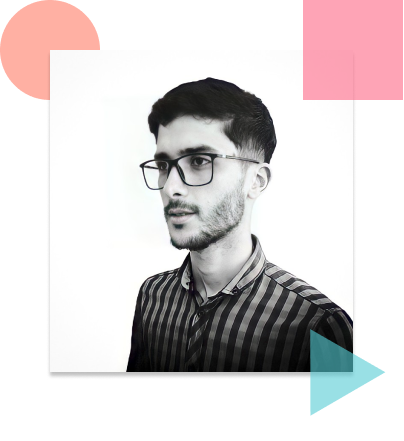
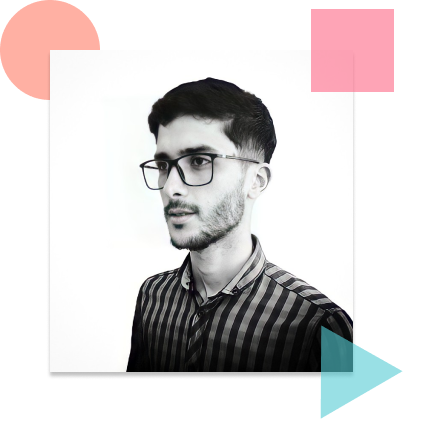
sized

diff --git a/src/components/Skills.js b/src/components/Skills.js
@@ -32,18 +32,18 @@ function Skills() {
                 </div>
 
                 <div data-aos="zoom-in" className="relative w-64 h-64 md:w-auto md:h-auto overflow-hidden">
-                    <img className="animate-spin-slow w-64 h-64 md:w-auto md:h-auto" src={circle} alt="circle" style={{maxHeight:570}}/>
+                    <img className="animate-spin-slow w-64 h-64 xl:w-auto xl:h-auto size-circle" src={circle} alt="circle"/>
                     <p className="hidden md:block absolute bottom-1/2 left-1/2 -ml-8 -mb-4 text-lg md:text-2xl font-pop font-bold ">AB-K</p>
-                    <img className="w-8 md:w-auto absolute bottom-24 left-16 md:bottom-48 md:left-36" src={django} alt="django"/>
-                    <img className="w-8 md:w-auto absolute top-20 right-20 md:top-32 md:right-52" src={react} alt="react"/>
-                    <img className="w-8 md:w-auto absolute bottom-20 right-20  md:bottom-44 md:right-40" src={tailwind} alt="tailwind"/>
-                    <img className="w-8 md:w-auto absolute top-28 right-8 md:top-56 md:right-16" src={js} alt="js"/>
-                    <img className="w-8 md:w-auto absolute bottom-8 left-24 md:bottom-16 md:left-56" src={python} alt="python"/>
-                    <img className="w-8 md:w-auto absolute top-16 left-12 md:top-40 md:left-20" src={boostrap} alt="boostrap"/>
-                    <img className="w-8 md:w-auto absolute bottom-5 right-12 md:bottom-16 md:right-20" src={mysql} alt="mysql"/>
-                    <img className="w-8 md:w-auto absolute top-10 right-7 md:top-20 md:right-16" src={html} alt="html"/>
-                    <img className="w-8 md:w-auto absolute top-1 left-28 md:top-1 md:left-48" src={css} alt="css"/>
-                    <img className="w-8 md:w-auto absolute bottom-24 left-1 md:bottom-68 md:left-6" src={jquery} alt="jquery"/> 
+                    <img className="w-8 xl:w-auto absolute bottom-24 left-16 xl:bottom-48 xl:left-36" src={django} alt="django"/>
+                    <img className="w-8 xl:w-auto absolute top-20 right-20 xl:top-32 xl:right-52" src={react} alt="react"/>
+                    <img className="w-8 xl:w-auto absolute bottom-20 right-20  xl:bottom-44 xl:right-40" src={tailwind} alt="tailwind"/>
+                    <img className="w-8 xl:w-auto absolute top-28 right-8 xl:top-56 xl:right-16" src={js} alt="js"/>
+                    <img className="w-8 xl:w-auto absolute bottom-8 left-24 xl:bottom-16 xl:left-56" src={python} alt="python"/>
+                    <img className="w-8 xl:w-auto absolute top-16 left-12 xl:top-40 xl:left-20" src={boostrap} alt="boostrap"/>
+                    <img className="w-8 xl:w-auto absolute bottom-5 right-12 xl:bottom-16 xl:right-20" src={mysql} alt="mysql"/>
+                    <img className="w-8 xl:w-auto absolute top-10 right-7 xl:top-20 xl:right-16" src={html} alt="html"/>
+                    <img className="w-8 xl:w-auto absolute top-1 left-28 xl:top-1 xl:left-48" src={css} alt="css"/>
+                    <img className="w-8 xl:w-auto absolute bottom-24 left-1 xl:bottom-68 xl:left-6" src={jquery} alt="jquery"/> 
 
 
                     {/*            

diff --git a/src/components/Hero.js b/src/components/Hero.js
@@ -10,18 +10,18 @@ function Hero() {
     })
     return (
         <div className="container mx-auto 2xl:px-20 h-screen flex items-center">
-            <div className="flex flex-wrap-reverse w-full justify-center xl:justify-around items-center md:mt-24">
-             <div className="text-gray-800 flex flex-col items-center md:items-start 2xl:-ml-8">
-                <p className="animate text-sm md:text-4xl font-bold font-pop ">Abdelaziz Korba</p> 
+            <div className="flex flex-wrap-reverse w-full justify-center md:justify-around items-center md:mt-24">
+             <div className="text-gray-800 flex flex-col items-center md:items-start 2x:-ml-8">
+                <p className="animate text-sm md:text-2xl xl:text-4xl font-bold font-pop ">Abdelaziz Korba</p> 
                 <Typical
                    className="text-sm md:text-lg font-meduim font-pop text-gray-400 my-4"
                     steps={['Freelance | full stack web developer', 1000]}
                     loop={Infinity}
                     wrapper="p"
                 />
-                <p className="text-xl font-meduim font-pop text-gray-700 hidden md:block ">Experienced Full Stack web developer Skilled in ReactJs</p>
-                <p className="text-xl font-meduim font-pop text-gray-700 my-2 hidden md:block">    and Django... , Strong engineering professional with a</p>
-                <p className="text-xl font-meduim font-pop text-gray-700 hidden md:block">    Licentiate degree . </p>
+                <p className="text-md xl:text-xl font-meduim font-pop text-gray-700 hidden md:block ">Experienced Full Stack web developer Skilled in ReactJs</p>
+                <p className="text-md xl:text-xl font-meduim font-pop text-gray-700 my-2 hidden md:block">    and Django... , Strong engineering professional with a</p>
+                <p className="text-md xl:text-xl font-meduim font-pop text-gray-700 hidden md:block">    Licentiate degree . </p>
                 <img className="mt-12  hidden md:block" src={cercles} alt=""/>
              </div>  
              <img className="w-64 md:w-96 2xl:w-auto " src={heroXl} alt="my" style={{maxWidth:450}} />

diff --git a/src/components/About.js b/src/components/About.js
@@ -10,13 +10,13 @@ function About() {
         AOS.init({duration: 3000});
     }, [])
     return (
-        <div id="about" data-aos="fade-up" className="w-full bg-custom-backSm md:bg-custom-backXl py-4 sm:py-16">
+        <div id="about" data-aos="fade-up" className="w-full bg-custom-backSm md:bg-custom-backXl py-16 sm:py-6 -mt-24 sm:mt-0">
             <div className="container mx-auto 2xl:px-10 flex flex-col items-center ">
                 <div className="text-xl md:text-4xl font-pop font-bold text-custom-orange mb-4 md:mb-12">
                     About me
                 </div>
                 <div className="w-5/6 xl:w-4/6 flex flex-wrap justify-center lg:justify-between items-center">
-                    <img data-aos="zoom-in" className="w-64 md:w-80 2xl:w-auto " src={about} alt="me"/>
+                    <img data-aos="zoom-in" className="w-64 md:w-80 2xl:w-auto " src={about} alt="me" style={{maxWidth:340}}/>
                     <div>
                         <div className="md:mb-12">
                             <span className="text-lg md:text-2xl font-pop font-bold float">I'm Korba Abdelaziz</span>

diff --git a/src/components/Services.js b/src/components/Services.js
@@ -10,9 +10,9 @@ function Services() {
     }, [])
 
     return (
-        <div id="services" data-aos="fade-up" className="bg-custom-backSm md:bg-custom-backXl py-8 md:py-28">
+        <div id="services" data-aos="fade-up" className="bg-custom-backSm md:bg-custom-backXl py-8 md:py-16">
             <div className="container mx-auto 2xl:px-20  flex justify-around items-center flex-wrap">
-                <div className="flex flex-col items-center md:items-start mb-4 md:mb-16">
+                <div className="flex flex-col items-center xl:items-start mb-4 md:mb-16">
                     <span className="text-xl md:text-4xl font-pop font-bold text-custom-orange md:-mt-16">
                        My services
                     </span>

diff --git a/src/components/NavBar.js b/src/components/NavBar.js
@@ -35,7 +35,7 @@ function NavBar() {
             <label for="checkbox" className="checkbtn">
                 <img src={menu} alt="menu"/>
             </label>
-            <label className="logo font-pop lg:ml-10 xl:ml-0">Abdelazizkb</label>
+            <label className="logo font-pop lg:ml-10 xl:ml-6">Abdelazizkb</label>
             <ul>
                 <li><a className="font-pop font-medium hover:text-custom-orange" href="#about">About</a></li>
                 <li><a className="font-pop font-medium hover:text-custom-orange" href="#services">Services</a></li>

diff --git a/src/components/Footer.js b/src/components/Footer.js
@@ -2,7 +2,7 @@ import React from 'react'
 
 function Footer() {
     return (
-        <div className="h-40 md:h-80 bg-custom-backSm md:bg-custom-backXl  flex justify-center items-center">
+        <div className="h-40  bg-custom-backSm md:bg-custom-backXl  flex justify-center items-center">
             <p className="text-gray-800 font-pop font-medium text-center">Copyright © 2021 All rights reserved | developed by Korba Abdelaziz </p>
         </div>
     )

diff --git a/src/index.css b/src/index.css
@@ -113,9 +113,14 @@ border-radius: 5px;
   width: 571.62px;
 }
 .size-project{
-  max-width: 628px;
-  max-height: 448px;
+  max-width: 528px;
+  max-height: 368px;
 }
+
+.size-circle{
+  max-height: 570px;
+}
+
 .bg-contact{
   height: 650px;
   width: 100%;
@@ -161,6 +166,7 @@ border-radius: 5px;
     height: 210px;
   }
 
+
 }
 
 @media (max-width: 952px){
@@ -169,6 +175,7 @@ border-radius: 5px;
 
   }
 }
+
 
 @media (max-width: 852px){
   .sticky nav ul{
